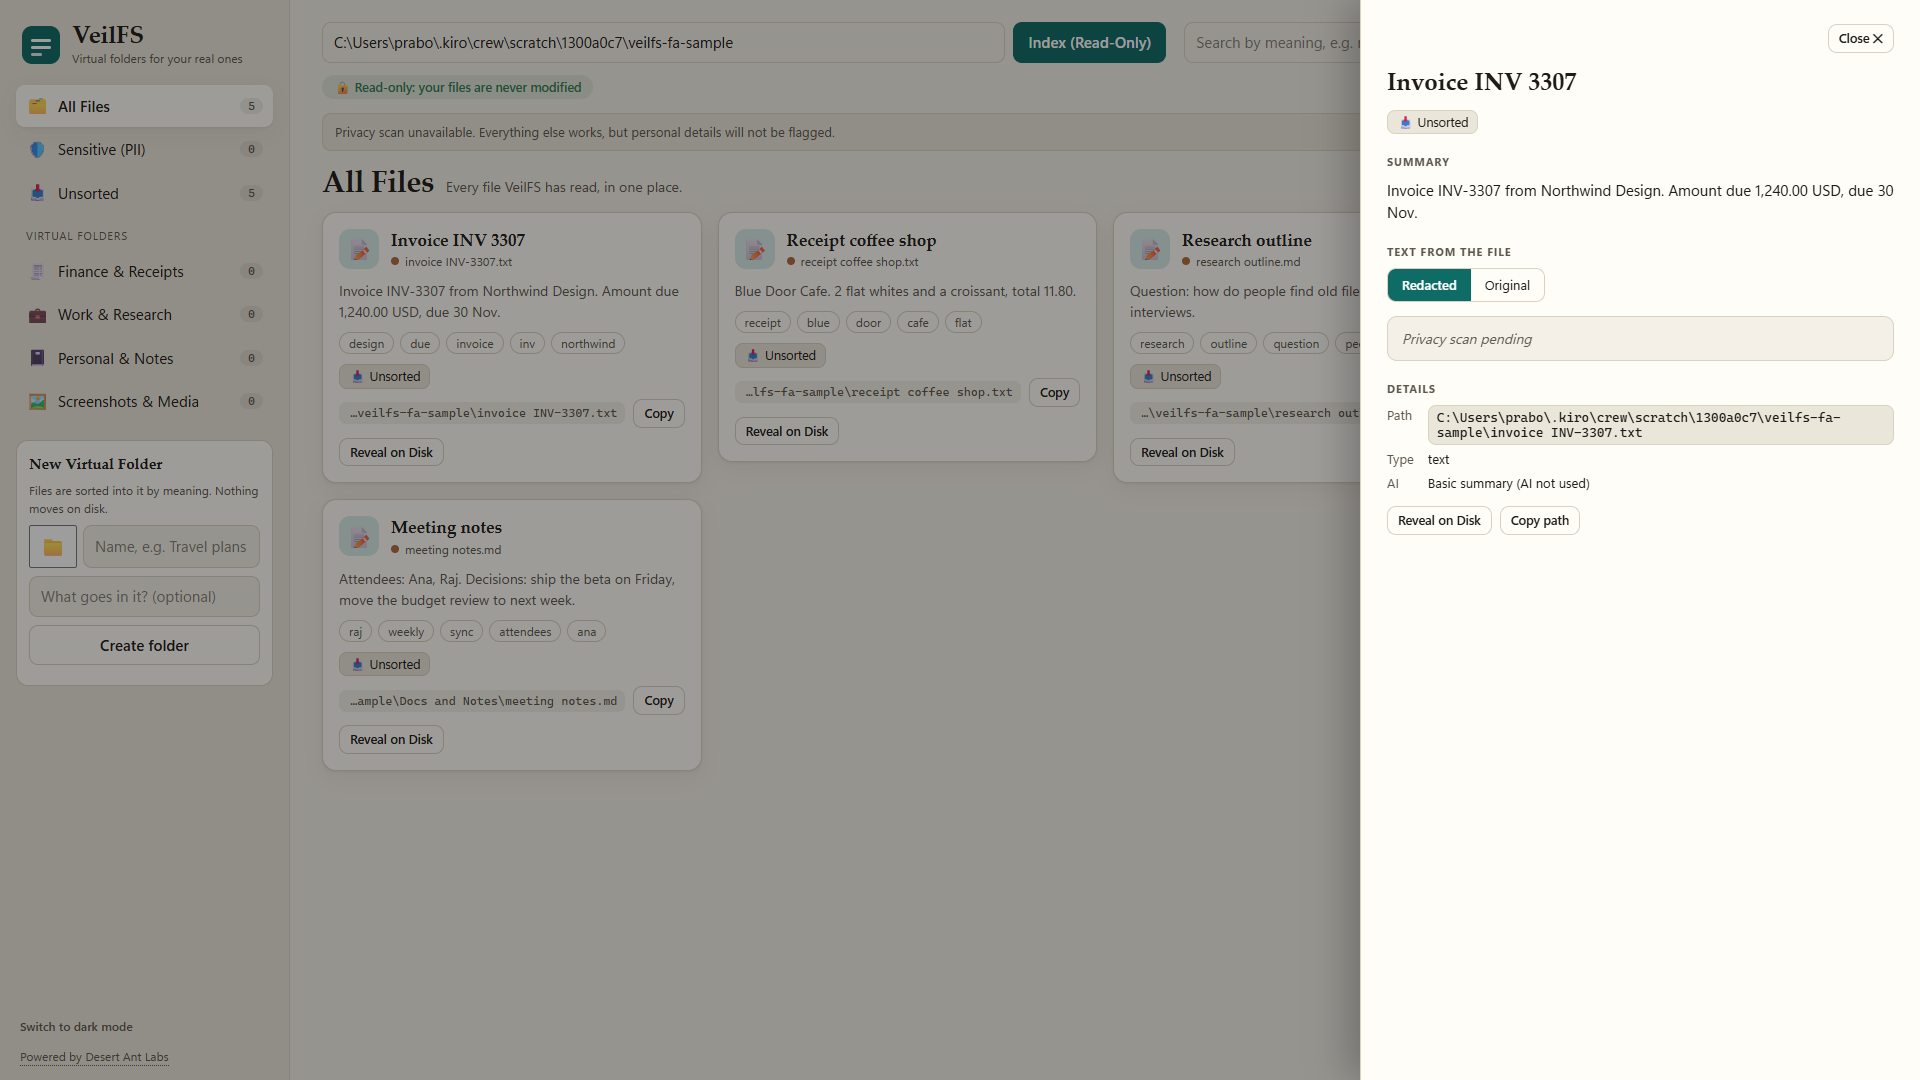
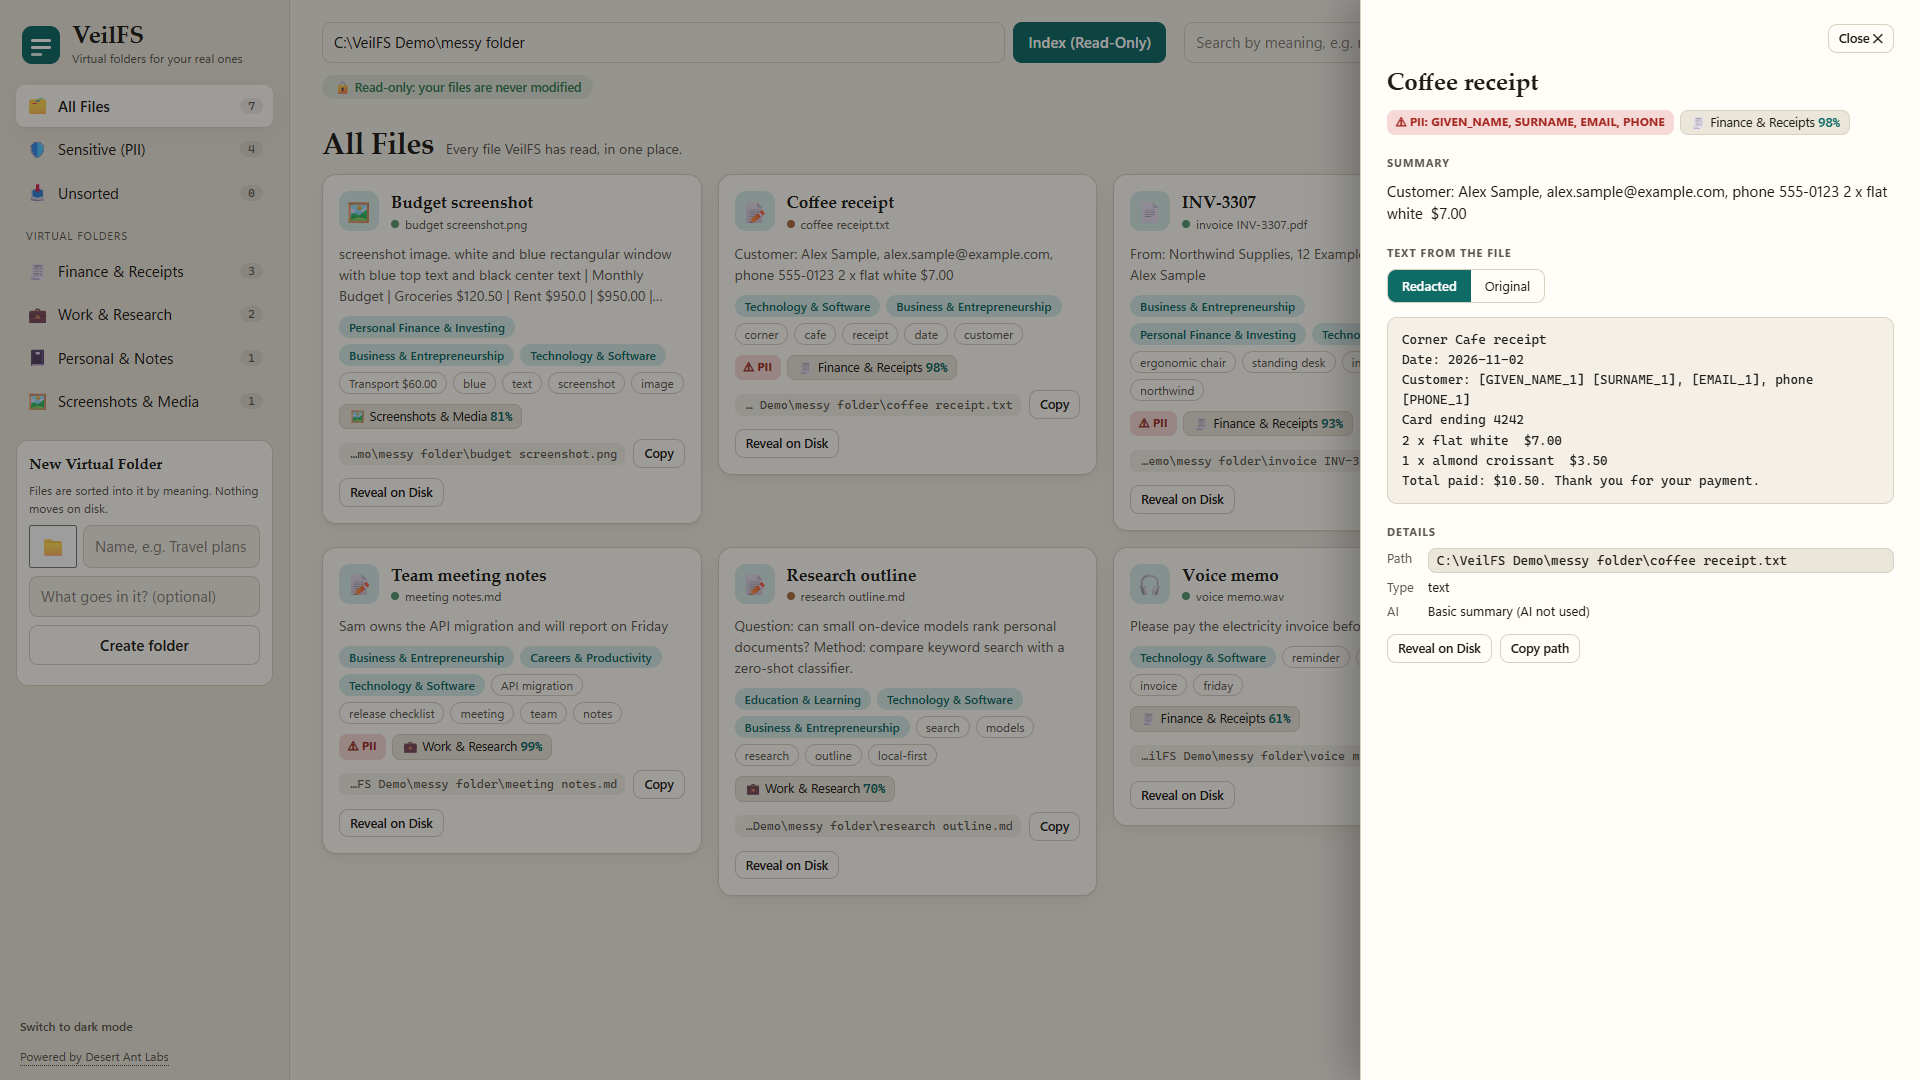
docs(review): Phase 2 wiring round and real-model screenshots

diff --git a/docs/review/phase-2.md b/docs/review/phase-2.md
@@ -1,6 +1,6 @@
 # Phase 2 review note: Frontend and browser AI
 
-Status: Step 1 of this note (Phase 1 fixes, UI, browser AI, backend). The wiring fixes and the real-model screenshots are added in a later section when done. Nothing is pushed. Everything is on local `main`.
+Nothing is pushed. Everything is on local `main`.
 
 ## Phase 1 review fixes (owner list, `docs/review/phase-1-feedback.md`)
 
@@ -104,6 +104,51 @@ Browser AI check page (headless Edge, `vite preview` on 4173, self-hosted models
 Outbound requests during the browser run: only `POST` and `OPTIONS` to `events.desertant.com/api/v1/license` and `/api/v1/activate` (the disclosed license check). No huggingface.co, no jsDelivr.
 
 Model files in `frontend/public/models/` (gitignored): 119,862,467 B (114 MB), tags redact v0.4.2, gist v2.2.0, emo v0.7.0.
+
+## Round 2: wiring check against the backend contract (commit 1972047)
+
+Source: the round 2 wiring report. Backend read at 4e729d4. The check used a `git archive HEAD` copy in `<temp>`, a backend on 127.0.0.1:8011, `vite preview` on 4173 and headless Edge over CDP. It had **no backend models** (every file Unsorted, `ai_status` fallback). Browser models were self-hosted. The model lock was taken with 4148 MB free and deleted after.
+
+Fix: `1972047 fix(ui): match the real reclassify job kind exactly` (`frontend/src/main.js`, one line: exact `"reclassify"` instead of a text match on "reclass"). Also landed in this window: `87e3bf3 fix(scanner): N3 also keep rows when stat or is_dir fails; N5 clear model failure cache at each job start`. No other mismatch was found between UI and backend (`sha256` on cards, PATCH 409, `{results, weak}`, `/scan/status` fields, `skipped_*` stats).
+
+Commands (trimmed): `git archive --format=zip -o <temp>\veilfs-r2\be.zip HEAD backend`, then uvicorn on 127.0.0.1:8011 with the data dir in `<temp>`, `python testdata\make_test_folder.py <temp>\veilfs-r2\files` (7 files), `$env:VITE_API_BASE="http://127.0.0.1:8011"; npm run build; node node_modules\vite\bin\vite.js preview`. `npm run build` printed `built in 1.04s`.
+
+| Check | Result | Numbers |
+|---|---|---|
+| Privacy pass PATCHes every file | PASS | 7 PATCH, all 200, 10 s from scan end to last PATCH. All 7 cards: `client_meta.sha256 == sha256` |
+| Second pass skips all | PASS | reload: 0 PATCH, 0 `GET /files/{id}` |
+| Stale sha256 gets 409, UI survives | PASS | 1 PATCH with status 409, 7 cards still shown, no error note, no toast, metadata stayed empty |
+| Sensitive (PII) folder | PASS | 5 files (coffee receipt, invoice, journal, meeting notes, voice memo). Sidebar count 5 |
+| Drawer shows redacted excerpt by default | PASS | `Customer: [GIVEN_NAME_1] [SURNAME_1], [EMAIL_1], phone [PHONE_1]` |
+| New folder suggests an emoji | PASS | "Travel plans" gave a plane emoji after 2.5 s |
+| Job kind after `POST /folders` | PASS | `kind: "reclassify"`, done, 8 of 8 |
+| Skipped line from a real response | PASS | "1 file over 25 MB skipped · 1 hidden or linked file skipped" |
+| "No strong matches. Closest:" | PASS with a caveat | Without GLiClass no real query scored under 35. Checked with `MIN_MATCH = 101` in the **temp copy only**: 0 results, 1 weak, UI showed the state. An unknown query gave the plain no-matches state |
+| Hugging Face fallback | PASS | dist copy without `models\`: 7 GET + 7 PATCH, all 200, within 150 s. Hosts: 127.0.0.1, huggingface.co, us.aws.cdn.hf.co, events.desertant.com |
+| Read-only | PASS | SHA-256 of all 7 test files identical before and after |
+
+The `runPrivacyPass` PATCH path and the Hugging Face fallback, listed as untested earlier, are tested by this round.
+
+Known issues added by this round:
+- `voice memo.wav` is flagged PII. The redactor tags "16000 Hz" in the metadata line as ZIP_CODE and a city. Images and audio with no OCR or transcript text only have a metadata line, so false PII is likely for them. Not fixed.
+- A reclassify job with no backend models puts long GLiClass messages in `errors`. The UI shows the first 3 as red notes. Seen only without models.
+- Gist topics are broad ("Technology & Software" appears on most files).
+- Real weak matches from GLiClass were not seen in that round.
+
+## Screenshots (retaken with real models)
+
+`docs/review/phase-2-shots/`: 01 first run, 02 grid, 03 drawer, 04 search, 05 weak matches, 06 backend down. Each in light and dark, 1920x1080. 01 to 05 were retaken with the **real backend models** (GLiClass float32, Needle, Whistle, Mirage; 5.6 GB was free) and the **browser AI on** (no `?ai=off`). Shot 05 is a real response: query "zebra spaceship" returned `results: []` and three `weak` cards (10%, 9%, 9%). No stand-in response is used any more. Shot 06 (backend down) is unchanged from the first round and needs no models.
+
+Setup: `git archive HEAD` copy of `backend` in `<temp>`, model cache copied into a data dir in `<temp>`, uvicorn on 127.0.0.1:8000, `vite` dev on 127.0.0.1:5173, test files from `make_test_folder.py` into `C:\VeilFS Demo\messy folder` (no user name in the path; deleted after). The driver waits until all 7 files have `client_meta.sha256` before taking shots. `shoot.mjs` in that folder is the driver as last run (shots 02 to 05 only; for 01 the first-run loop was removed because the DB was no longer empty, those two came from an earlier run of the same driver on an empty DB). Model lock taken and deleted. Server, vite and Edge stopped.
+
+What the shots show: titles and folders from the models (Finance & Receipts 3, Work & Research 2, Personal & Notes 1, Screenshots & Media 1, Unsorted 0), PII badges on 4 files, and in the drawer a redacted excerpt (`Customer: [GIVEN_NAME_1] [SURNAME_1], [EMAIL_1], phone [PHONE_1]`). Shot 04 "money I spent" shows receipt 100%, invoice 62%, budget screenshot 55% (the known issue below).
+
+Visible flaws in the shots, not fixed:
+- The drawer **Summary** line shows the original text, including the fake name, email and phone. Only the excerpt box is redacted.
+- The redactor leaves `Card ending 4242` in the excerpt.
+- Sensitive (PII) counts 4 here. In the wiring round it was 5 (`voice memo.wav` was flagged there), so PII flagging of the audio file varies between runs.
+- Several files show the broad Gist topic "Technology & Software", and `budget screenshot.png` also has "Business & Entrepreneurship".
+- Paths in cards are cut on the left (`…mo\messy folder\...`).
 
 ## Known issues
 
